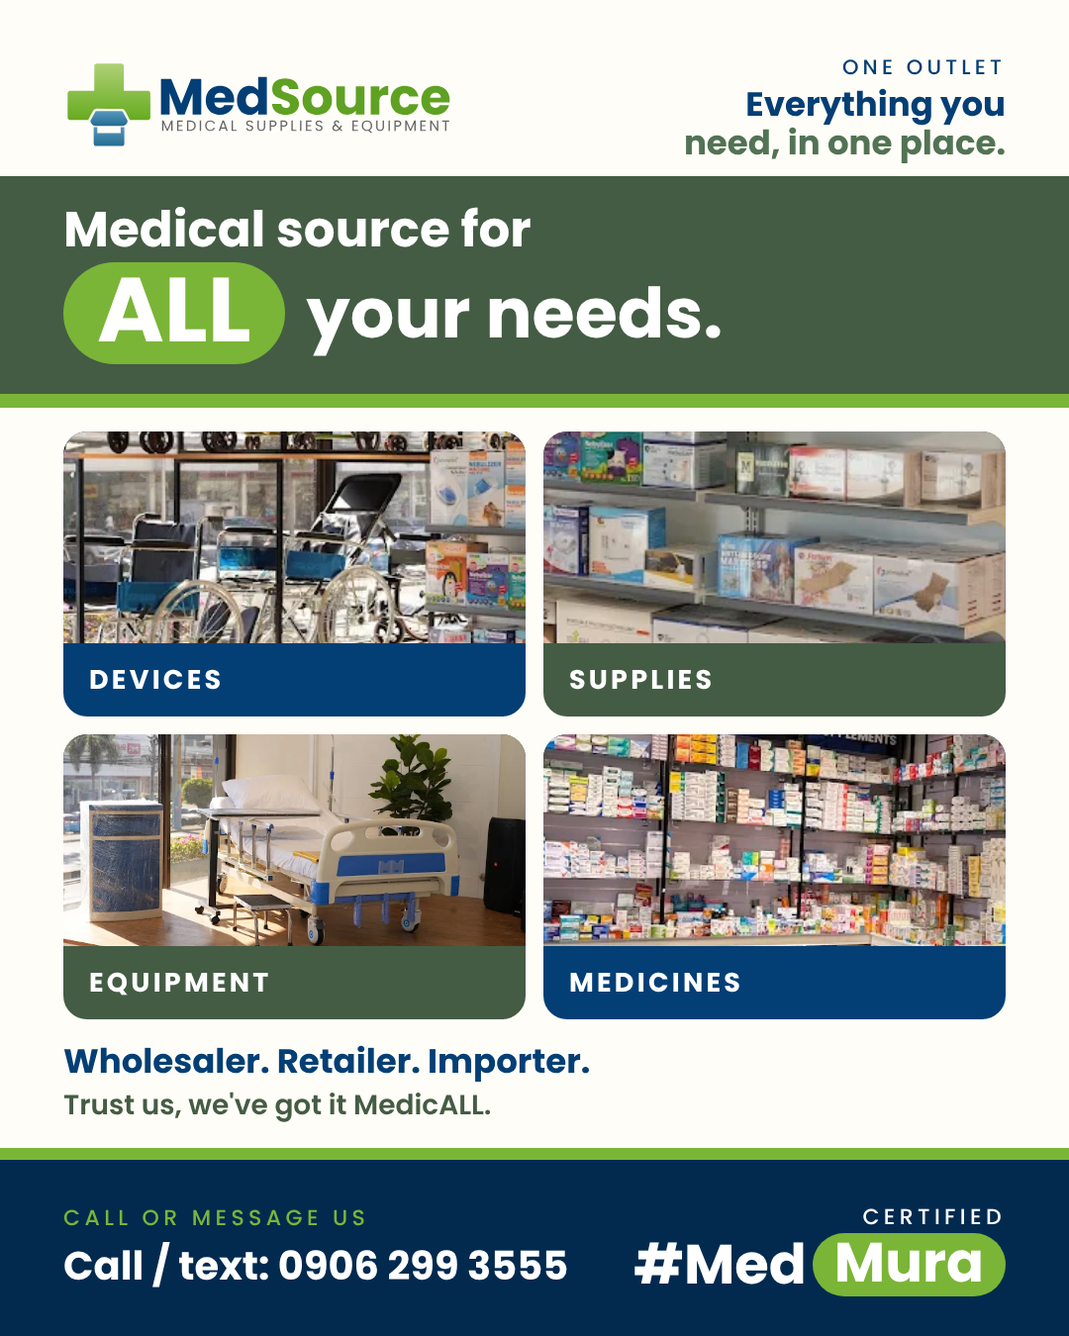
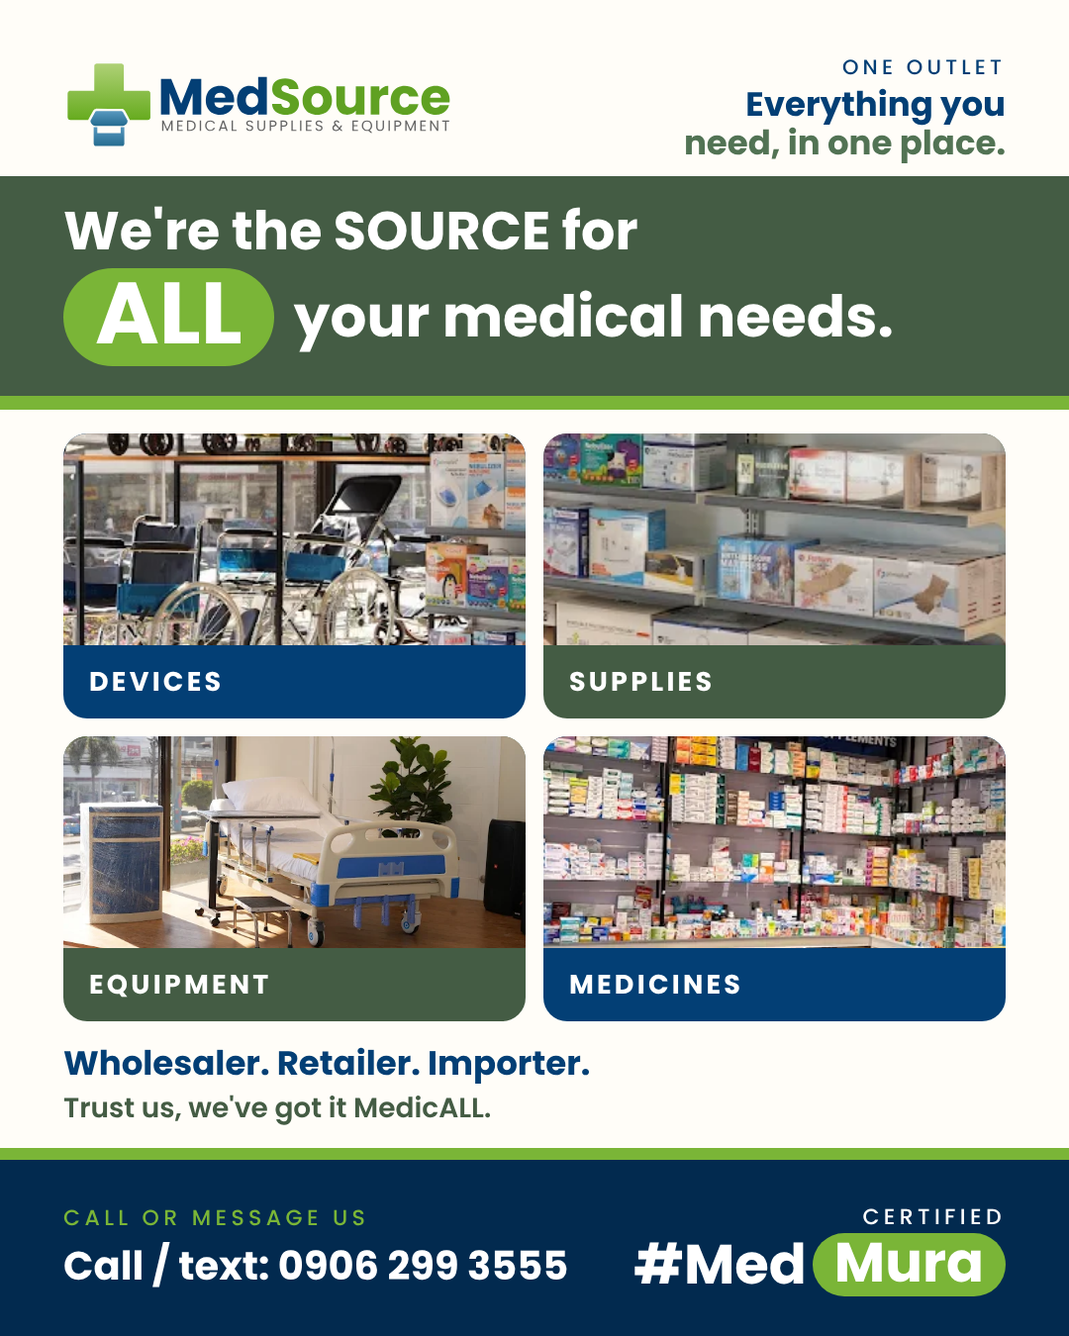
Approved: Oct 21 wholesale, Oct 23 accreditations (Sta. Lucia), Oct 25 recap
Claude-Session: https://claude.ai/code/session_01L5hhjkSSc8F7DavC5bWwGT

diff --git a/medsource/posts/2026-10-23-accreditations/source/story.html b/medsource/posts/2026-10-23-accreditations/source/story.html
@@ -14,23 +14,25 @@ body{width:1080px;height:1920px}
 </style></head><body><div class="root"><div style="padding:120px 64px 0;display:flex;justify-content:space-between;align-items:flex-start;height:232px">
 <img src="../../../brand/logos/medsource/medsource-landscape-white.svg" style="height:92px;margin-top:4px">
 <div style="text-align:right;line-height:1.15">
-<div style="font-size:21px;letter-spacing:.2em;font-weight:500;color:#fff">WHY TRUST US</div>
-<div style="font-size:34px;font-weight:700;color:#fff;margin-top:6px">Accredited and</div>
-<div style="font-size:34px;font-weight:700;color:#7AB537">ready to help.</div></div></div><div style="flex:1;padding:50px 64px 0;display:flex;flex-direction:column">
+<div style="font-size:21px;letter-spacing:.2em;font-weight:500;color:#fff">NOW AT OUR</div>
+<div style="font-size:34px;font-weight:700;color:#fff;margin-top:6px">Sta. Lucia Mall</div>
+<div style="font-size:34px;font-weight:700;color:#7AB537">Branch</div></div></div><div style="flex:1;padding:50px 64px 0;display:flex;flex-direction:column">
 <div style="font-size:62px;font-weight:300;color:#fff;letter-spacing:.08em;line-height:1.1">WE ARE</div>
 <div style="font-size:128px;font-weight:700;color:#fff;line-height:1.05;letter-spacing:-.02em;margin-top:2px">ACCREDITED.</div>
 <div style="width:96px;height:8px;background:#7AB537;margin-top:26px"></div>
 <div style="display:flex;flex-direction:column;gap:30px;margin-top:64px"><div style="background:#FFFDF8;border-radius:28px;height:336px;display:flex;align-items:center;padding:0 40px;gap:36px">
-<svg viewBox="0 0 64 64" width="104" height="104"><circle cx="32" cy="32" r="32" fill="#7AB537"/><path d="M18 33l9 9 19-21" fill="none" stroke="#022A4F" stroke-width="7" stroke-linecap="round" stroke-linejoin="round"/></svg>
-<div><div style="font-size:50px;font-weight:700;color:#033F75;line-height:1.15">PhilHealth YAKAP Gamot</div>
-<div style="font-size:34px;font-weight:500;color:#445C44;margin-top:8px;line-height:1.3">Accredited for the YAKAP Gamot program.</div></div></div><div style="background:#FFFDF8;border-radius:28px;height:336px;display:flex;align-items:center;padding:0 40px;gap:36px">
-<svg viewBox="0 0 64 64" width="104" height="104"><circle cx="32" cy="32" r="32" fill="#7AB537"/><path d="M18 33l9 9 19-21" fill="none" stroke="#022A4F" stroke-width="7" stroke-linecap="round" stroke-linejoin="round"/></svg>
-<div><div style="font-size:50px;font-weight:700;color:#033F75;line-height:1.15">DSWD Guarantee Letters</div>
-<div style="font-size:34px;font-weight:500;color:#445C44;margin-top:8px;line-height:1.3">Accredited under the DSWD AICS program.</div></div></div></div>
+<div style="width:330px;flex:none"><img src="ph.png" style="width:100%;display:block"><img src="yk.png" style="width:100%;display:block;margin-top:6px"><div style="margin-top:12px;height:37px;border-radius:18px;display:flex;align-items:center;justify-content:center;font-weight:700;font-size:18.9px;letter-spacing:.06em;color:#033F75;background:#FFB700;white-space:nowrap">GAMOT ACCREDITED</div></div><div style="width:2px;align-self:stretch;margin:36px 0;background:#D9DED6;flex:none"></div>
+<div><div style="font-size:46px;font-weight:700;color:#033F75;line-height:1.15">PhilHealth YAKAP Gamot</div>
+<div style="font-size:32px;font-weight:500;color:#445C44;margin-top:8px;line-height:1.3">Accredited for the YAKAP Gamot program.</div></div></div><div style="background:#FFFDF8;border-radius:28px;height:336px;display:flex;align-items:center;padding:0 40px;gap:36px">
+<div style="width:330px;flex:none"><div style="display:flex;align-items:center;height:122px"><img src="aics-icon.png" style="height:120px;width:auto;display:block;margin-right:12px"><div style="color:#26225F;font-weight:700;line-height:1"><b style="display:block;font-size:27px;letter-spacing:.06em;margin-bottom:5px">DSWD</b><span style="font-size:38px">AICS GL</span></div></div><div style="margin-top:12px;height:37px;border-radius:18px;display:flex;align-items:center;justify-content:center;font-weight:700;font-size:18.9px;letter-spacing:.06em;color:#033F75;background:#FFB700;white-space:nowrap">ACCREDITED</div></div><div style="width:2px;align-self:stretch;margin:36px 0;background:#D9DED6;flex:none"></div>
+<div><div style="font-size:46px;font-weight:700;color:#033F75;line-height:1.15">DSWD Guarantee Letters</div>
+<div style="font-size:32px;font-weight:500;color:#445C44;margin-top:8px;line-height:1.3">Accredited under the DSWD AICS program.</div></div></div></div>
 <div style="margin-top:60px;font-size:44px;font-weight:700;color:#fff;line-height:1.2">Send us your request, we take it from there.</div>
-<div style="font-size:34px;font-weight:600;color:#7AB537;margin-top:6px">Ask us how to get started.</div></div><div style="height:12px;background:#7AB537;flex:none"></div>
-<div style="background:#FFFDF8;height:350px;flex:none;padding:0 64px 120px;display:flex;justify-content:space-between;align-items:center">
-<div><div style="font-size:22px;letter-spacing:.2em;font-weight:500;color:#5A6470">CALL OR MESSAGE US</div>
-<div style="font-size:40px;font-weight:700;color:#033F75;margin-top:2px;white-space:nowrap">Call / text: 0906 299 3555</div></div>
-<div style="text-align:right"><div style="font-size:22px;letter-spacing:.2em;font-weight:500;color:#033F75">CERTIFIED</div>
-<div style="display:flex;align-items:center;justify-content:flex-end;font-size:56px;font-weight:700;color:#033F75;line-height:1">#Med<span style="background:#7AB537;color:#fff;border-radius:9999px;padding:2px 22px 6px;margin-left:6px">Mura</span></div></div></div></div></body></html>
+<div style="font-size:34px;font-weight:600;color:#7AB537;margin-top:6px">Email: sales.stalucia@medsource.com.ph</div></div><div style="height:12px;background:#7AB537;flex:none"></div>
+<div style="background:#FFFDF8;height:366px;flex:none;padding:0 64px 120px;display:flex;justify-content:space-between;align-items:center">
+<div><div style="font-size:21px;letter-spacing:.2em;font-weight:500;color:#5A6470">VISIT OR MESSAGE US</div>
+<div style="font-size:34px;font-weight:700;color:#033F75;margin-top:2px;white-space:nowrap">MedSource &middot; Sta. Lucia Mall</div>
+<div style="font-size:22px;font-weight:500;color:#5A6470;margin-top:1px;white-space:nowrap">Felix Ave. cor. Marcos Hwy, Cainta, Rizal</div>
+<div style="font-size:36px;font-weight:700;color:#033F75;margin-top:4px;white-space:nowrap">Call / text: 0967 325 3555</div></div>
+<div style="text-align:right"><div style="font-size:20px;letter-spacing:.2em;font-weight:500;color:#033F75">CERTIFIED</div>
+<div style="display:flex;align-items:center;justify-content:flex-end;font-size:46px;font-weight:700;color:#033F75;line-height:1">#Med<span style="background:#7AB537;color:#fff;border-radius:9999px;padding:2px 18px 5px;margin-left:5px">Mura</span></div></div></div></div></body></html>

diff --git a/medsource/posts/2026-10-23-accreditations/source/feed.html b/medsource/posts/2026-10-23-accreditations/source/feed.html
@@ -14,23 +14,25 @@ body{width:1080px;height:1350px}
 </style></head><body><div class="root"><div style="padding:56px 64px 0;display:flex;justify-content:space-between;align-items:flex-start;height:168px">
 <img src="../../../brand/logos/medsource/medsource-landscape-white.svg" style="height:92px;margin-top:4px">
 <div style="text-align:right;line-height:1.15">
-<div style="font-size:21px;letter-spacing:.2em;font-weight:500;color:#fff">WHY TRUST US</div>
-<div style="font-size:34px;font-weight:700;color:#fff;margin-top:6px">Accredited and</div>
-<div style="font-size:34px;font-weight:700;color:#7AB537">ready to help.</div></div></div><div style="flex:1;padding:26px 64px 0;display:flex;flex-direction:column">
+<div style="font-size:21px;letter-spacing:.2em;font-weight:500;color:#fff">NOW AT OUR</div>
+<div style="font-size:34px;font-weight:700;color:#fff;margin-top:6px">Sta. Lucia Mall</div>
+<div style="font-size:34px;font-weight:700;color:#7AB537">Branch</div></div></div><div style="flex:1;padding:26px 64px 0;display:flex;flex-direction:column">
 <div style="font-size:52px;font-weight:300;color:#fff;letter-spacing:.08em;line-height:1.1">WE ARE</div>
 <div style="font-size:112px;font-weight:700;color:#fff;line-height:1.05;letter-spacing:-.02em;margin-top:2px">ACCREDITED.</div>
 <div style="width:96px;height:8px;background:#7AB537;margin-top:18px"></div>
 <div style="display:flex;flex-direction:column;gap:26px;margin-top:44px"><div style="background:#FFFDF8;border-radius:28px;height:236px;display:flex;align-items:center;padding:0 40px;gap:36px">
-<svg viewBox="0 0 64 64" width="84" height="84"><circle cx="32" cy="32" r="32" fill="#7AB537"/><path d="M18 33l9 9 19-21" fill="none" stroke="#022A4F" stroke-width="7" stroke-linecap="round" stroke-linejoin="round"/></svg>
-<div><div style="font-size:40px;font-weight:700;color:#033F75;line-height:1.15">PhilHealth YAKAP Gamot</div>
-<div style="font-size:28px;font-weight:500;color:#445C44;margin-top:8px;line-height:1.3">Accredited for the YAKAP Gamot program.</div></div></div><div style="background:#FFFDF8;border-radius:28px;height:236px;display:flex;align-items:center;padding:0 40px;gap:36px">
-<svg viewBox="0 0 64 64" width="84" height="84"><circle cx="32" cy="32" r="32" fill="#7AB537"/><path d="M18 33l9 9 19-21" fill="none" stroke="#022A4F" stroke-width="7" stroke-linecap="round" stroke-linejoin="round"/></svg>
-<div><div style="font-size:40px;font-weight:700;color:#033F75;line-height:1.15">DSWD Guarantee Letters</div>
-<div style="font-size:28px;font-weight:500;color:#445C44;margin-top:8px;line-height:1.3">Accredited under the DSWD AICS program.</div></div></div></div>
+<div style="width:268px;flex:none"><img src="ph.png" style="width:100%;display:block"><img src="yk.png" style="width:100%;display:block;margin-top:6px"><div style="margin-top:10px;height:30px;border-radius:15px;display:flex;align-items:center;justify-content:center;font-weight:700;font-size:15.5px;letter-spacing:.06em;color:#033F75;background:#FFB700;white-space:nowrap">GAMOT ACCREDITED</div></div><div style="width:2px;align-self:stretch;margin:32px 0;background:#D9DED6;flex:none"></div>
+<div><div style="font-size:36px;font-weight:700;color:#033F75;line-height:1.15">PhilHealth YAKAP Gamot</div>
+<div style="font-size:26px;font-weight:500;color:#445C44;margin-top:8px;line-height:1.3">Accredited for the YAKAP Gamot program.</div></div></div><div style="background:#FFFDF8;border-radius:28px;height:236px;display:flex;align-items:center;padding:0 40px;gap:36px">
+<div style="width:268px;flex:none"><div style="display:flex;align-items:center;height:100px"><img src="aics-icon.png" style="height:98px;width:auto;display:block;margin-right:12px"><div style="color:#26225F;font-weight:700;line-height:1"><b style="display:block;font-size:22px;letter-spacing:.06em;margin-bottom:5px">DSWD</b><span style="font-size:31px">AICS GL</span></div></div><div style="margin-top:10px;height:30px;border-radius:15px;display:flex;align-items:center;justify-content:center;font-weight:700;font-size:15.5px;letter-spacing:.06em;color:#033F75;background:#FFB700;white-space:nowrap">ACCREDITED</div></div><div style="width:2px;align-self:stretch;margin:32px 0;background:#D9DED6;flex:none"></div>
+<div><div style="font-size:36px;font-weight:700;color:#033F75;line-height:1.15">DSWD Guarantee Letters</div>
+<div style="font-size:26px;font-weight:500;color:#445C44;margin-top:8px;line-height:1.3">Accredited under the DSWD AICS program.</div></div></div></div>
 <div style="margin-top:36px;font-size:37px;font-weight:700;color:#fff;line-height:1.2">Send us your request, we take it from there.</div>
-<div style="font-size:29px;font-weight:600;color:#7AB537;margin-top:6px">Ask us how to get started.</div></div><div style="height:12px;background:#7AB537;flex:none"></div>
-<div style="background:#FFFDF8;height:178px;flex:none;padding:0 64px 0px;display:flex;justify-content:space-between;align-items:center">
-<div><div style="font-size:22px;letter-spacing:.2em;font-weight:500;color:#5A6470">CALL OR MESSAGE US</div>
-<div style="font-size:40px;font-weight:700;color:#033F75;margin-top:2px;white-space:nowrap">Call / text: 0906 299 3555</div></div>
-<div style="text-align:right"><div style="font-size:22px;letter-spacing:.2em;font-weight:500;color:#033F75">CERTIFIED</div>
-<div style="display:flex;align-items:center;justify-content:flex-end;font-size:56px;font-weight:700;color:#033F75;line-height:1">#Med<span style="background:#7AB537;color:#fff;border-radius:9999px;padding:2px 22px 6px;margin-left:6px">Mura</span></div></div></div></div></body></html>
+<div style="font-size:29px;font-weight:600;color:#7AB537;margin-top:6px">Email: sales.stalucia@medsource.com.ph</div></div><div style="height:12px;background:#7AB537;flex:none"></div>
+<div style="background:#FFFDF8;height:194px;flex:none;padding:0 64px 0px;display:flex;justify-content:space-between;align-items:center">
+<div><div style="font-size:21px;letter-spacing:.2em;font-weight:500;color:#5A6470">VISIT OR MESSAGE US</div>
+<div style="font-size:34px;font-weight:700;color:#033F75;margin-top:2px;white-space:nowrap">MedSource &middot; Sta. Lucia Mall</div>
+<div style="font-size:22px;font-weight:500;color:#5A6470;margin-top:1px;white-space:nowrap">Felix Ave. cor. Marcos Hwy, Cainta, Rizal</div>
+<div style="font-size:36px;font-weight:700;color:#033F75;margin-top:4px;white-space:nowrap">Call / text: 0967 325 3555</div></div>
+<div style="text-align:right"><div style="font-size:20px;letter-spacing:.2em;font-weight:500;color:#033F75">CERTIFIED</div>
+<div style="display:flex;align-items:center;justify-content:flex-end;font-size:46px;font-weight:700;color:#033F75;line-height:1">#Med<span style="background:#7AB537;color:#fff;border-radius:9999px;padding:2px 18px 5px;margin-left:5px">Mura</span></div></div></div></div></body></html>

diff --git a/medsource/posts/2026-10-25-one-outlet-recap/source/story.html b/medsource/posts/2026-10-25-one-outlet-recap/source/story.html
@@ -17,8 +17,8 @@ body{width:1080px;height:1920px}
 <div style="font-size:21px;letter-spacing:.2em;font-weight:500;color:#033F75">ONE OUTLET</div>
 <div style="font-size:34px;font-weight:700;color:#033F75;margin-top:6px">Everything you</div>
 <div style="font-size:34px;font-weight:700;color:#527354">need, in one place.</div></div></div><div style="background:#445C44;flex:none;padding:40px 64px 44px;margin-top:28px">
-<div style="font-size:58px;font-weight:700;color:#fff;line-height:1.1">Medical source for</div>
-<div style="display:flex;align-items:center;gap:22px;margin-top:6px"><span style="background:#7AB537;color:#fff;border-radius:9999px;font-size:112px;font-weight:700;line-height:1.05;padding:0 40px 8px">ALL</span><span style="font-size:86px;font-weight:700;color:#fff;line-height:1.05">your needs.</span></div></div>
+<div style="font-size:62px;font-weight:700;color:#fff;line-height:1.1">We're the SOURCE for</div>
+<div style="display:flex;align-items:center;gap:20px;margin-top:8px"><span style="background:#7AB537;color:#fff;border-radius:9999px;font-size:100px;font-weight:700;line-height:1.05;padding:0 36px 8px">ALL</span><span style="font-size:62px;font-weight:700;color:#fff;line-height:1.05">your medical needs.</span></div></div>
 <div style="height:14px;background:#7AB537;flex:none"></div>
 <div style="flex:1;padding:44px 64px 0;display:flex;flex-direction:column">
 <div style="display:grid;grid-template-columns:1fr 1fr;gap:26px"><div style="border-radius:24px;overflow:hidden;background:#033F75">

diff --git a/medsource/posts/2026-10-25-one-outlet-recap/source/feed.html b/medsource/posts/2026-10-25-one-outlet-recap/source/feed.html
@@ -17,8 +17,8 @@ body{width:1080px;height:1350px}
 <div style="font-size:21px;letter-spacing:.2em;font-weight:500;color:#033F75">ONE OUTLET</div>
 <div style="font-size:34px;font-weight:700;color:#033F75;margin-top:6px">Everything you</div>
 <div style="font-size:34px;font-weight:700;color:#527354">need, in one place.</div></div></div><div style="background:#445C44;flex:none;padding:26px 64px 30px;margin-top:10px">
-<div style="font-size:50px;font-weight:700;color:#fff;line-height:1.1">Medical source for</div>
-<div style="display:flex;align-items:center;gap:22px;margin-top:6px"><span style="background:#7AB537;color:#fff;border-radius:9999px;font-size:92px;font-weight:700;line-height:1.05;padding:0 34px 6px">ALL</span><span style="font-size:70px;font-weight:700;color:#fff;line-height:1.05">your needs.</span></div></div>
+<div style="font-size:54px;font-weight:700;color:#fff;line-height:1.1">We're the SOURCE for</div>
+<div style="display:flex;align-items:center;gap:20px;margin-top:8px"><span style="background:#7AB537;color:#fff;border-radius:9999px;font-size:88px;font-weight:700;line-height:1.05;padding:0 32px 6px">ALL</span><span style="font-size:58px;font-weight:700;color:#fff;line-height:1.05">your medical needs.</span></div></div>
 <div style="height:14px;background:#7AB537;flex:none"></div>
 <div style="flex:1;padding:24px 64px 0;display:flex;flex-direction:column">
 <div style="display:grid;grid-template-columns:1fr 1fr;gap:18px"><div style="border-radius:24px;overflow:hidden;background:#033F75">

diff --git a/medsource/posts/2026-10-21-wholesale-clinics/source/story.html b/medsource/posts/2026-10-21-wholesale-clinics/source/story.html
@@ -21,8 +21,8 @@ body{width:1080px;height:1920px}
 <div style="font-size:104px;font-weight:700;color:#fff;line-height:1.05;letter-spacing:-.01em;margin-top:6px">Buy in bulk.</div></div>
 <div style="height:14px;background:#7AB537;flex:none"></div>
 <div style="flex:1;padding:44px 64px 0;display:flex;flex-direction:column">
-<div style="position:relative;height:640px;border-radius:28px;overflow:hidden;background:url(photo3.webp) center/cover">
-<div style="position:absolute;left:0;bottom:0;background:#033F75;color:#fff;font-size:26px;font-weight:700;letter-spacing:.1em;padding:20px 30px;border-top-right-radius:24px">EQUIPMENT, SUPPLIES AND MEDICINES</div></div>
+<div style="position:relative;height:640px;border-radius:28px;overflow:hidden;background:url(photo1.webp) center/cover">
+<div style="position:absolute;left:0;bottom:0;background:#033F75;color:#fff;font-size:26px;font-weight:700;letter-spacing:.1em;padding:20px 30px;border-top-right-radius:24px">HOSPITAL EQUIPMENT AND SUPPLIES</div></div>
 <div style="margin-top:48px;font-size:47px;font-weight:700;color:#033F75;line-height:1.2">Stocking a clinic or hospital?</div>
 <div style="font-size:37px;font-weight:600;color:#445C44;margin-top:6px;line-height:1.3">Ask for a quotation: sales.quotations@medsource.com.ph</div></div><div style="height:12px;background:#7AB537;flex:none"></div>
 <div style="background:#033F75;height:350px;flex:none;padding:0 64px 120px;display:flex;justify-content:space-between;align-items:center">

diff --git a/medsource/posts/2026-10-21-wholesale-clinics/source/feed.html b/medsource/posts/2026-10-21-wholesale-clinics/source/feed.html
@@ -21,8 +21,8 @@ body{width:1080px;height:1350px}
 <div style="font-size:90px;font-weight:700;color:#fff;line-height:1.05;letter-spacing:-.01em;margin-top:6px">Buy in bulk.</div></div>
 <div style="height:14px;background:#7AB537;flex:none"></div>
 <div style="flex:1;padding:28px 64px 0;display:flex;flex-direction:column">
-<div style="position:relative;height:540px;border-radius:28px;overflow:hidden;background:url(photo3.webp) center/cover">
-<div style="position:absolute;left:0;bottom:0;background:#033F75;color:#fff;font-size:23px;font-weight:700;letter-spacing:.1em;padding:20px 30px;border-top-right-radius:24px">EQUIPMENT, SUPPLIES AND MEDICINES</div></div>
+<div style="position:relative;height:540px;border-radius:28px;overflow:hidden;background:url(photo1.webp) center/cover">
+<div style="position:absolute;left:0;bottom:0;background:#033F75;color:#fff;font-size:23px;font-weight:700;letter-spacing:.1em;padding:20px 30px;border-top-right-radius:24px">HOSPITAL EQUIPMENT AND SUPPLIES</div></div>
 <div style="margin-top:26px;font-size:39px;font-weight:700;color:#033F75;line-height:1.2">Stocking a clinic or hospital?</div>
 <div style="font-size:31px;font-weight:600;color:#445C44;margin-top:6px;line-height:1.3">Ask for a quotation: sales.quotations@medsource.com.ph</div></div><div style="height:12px;background:#7AB537;flex:none"></div>
 <div style="background:#033F75;height:178px;flex:none;padding:0 64px 0px;display:flex;justify-content:space-between;align-items:center">

diff --git a/medsource/posts/2026-10-23-accreditations/post.md b/medsource/posts/2026-10-23-accreditations/post.md
@@ -4,11 +4,11 @@
 | --- | --- |
 | Date | Oct 23, 2026 |
 | Type | Social post |
-| Branch | None (digital sales, 0906 299 3555) |
-| Status | Draft, awaiting approval |
+| Branch | Sta. Lucia Mall (0967 325 3555, sales.stalucia@medsource.com.ph) |
+| Status | Approved |
 | Design | HTML source in [`source/`](source/), rendered with the MedSource Design System |
 
-PhilHealth YAKAP Gamot and DSWD Guarantee Letter (AICS) accreditation, digital sales version. Full forest scheme, text and icons only (no government logos).
+PhilHealth YAKAP Gamot and DSWD Guarantee Letter (AICS) accreditation for the Sta. Lucia Mall branch. Full forest scheme, with the YAKAP Gamot and AICS GL lockups from the Facebook cover.
 
 ## Schedule
 
@@ -33,7 +33,9 @@ Yes, we are officially legit. ✅😉
 
 MedSource is PhilHealth YAKAP Gamot accredited and DSWD Guarantee Letter (AICS) accredited. 🏥
 
-Send us your request and we will take it from there. 💚
+Send us your request or drop by our Sta. Lucia Mall branch and we will take it from there. 💚
+
+MedSource Medical Supplies (Ground Level, Sta Lucia Mall Building 1 Felix Avenue, San Isidro, Cainta Rizal)
 
 MESSAGE NOW The ALL-IN-ONE Medical Outlet has YOU covered!
 Available for IN-STORE PICKUP and NATIONWIDE SHIPPING!
@@ -49,7 +51,7 @@ Yes, we are officially legit. ✅😉
 
 MedSource is PhilHealth YAKAP Gamot accredited and DSWD Guarantee Letter (AICS) accredited. 🏥
 
-Send us your request and we will take it from there. 💚
+Send us your request or drop by our Sta. Lucia Mall branch and we will take it from there. 💚
 
 DM NOW The ALL-IN-ONE Medical Outlet has YOU covered!
 Available for IN-STORE PICKUP and NATIONWIDE SHIPPING!

diff --git a/medsource/README.md b/medsource/README.md
@@ -9,7 +9,7 @@ Every MedSource publication in one place: social posts, signage and print, plus 
 | Date | Publication | Branch | Status | Preview |
 | --- | --- | --- | --- | --- |
 | Oct 25, 2026 | [One Outlet Recap](posts/2026-10-25-one-outlet-recap/post.md) | Digital sales | Draft | <img src="posts/2026-10-25-one-outlet-recap/feed-1080x1350.png" width="120"> |
-| Oct 23, 2026 | [Accredited](posts/2026-10-23-accreditations/post.md) | Digital sales | Draft | <img src="posts/2026-10-23-accreditations/feed-1080x1350.png" width="120"> |
+| Oct 23, 2026 | [Accredited](posts/2026-10-23-accreditations/post.md) | Sta. Lucia Mall | Draft | <img src="posts/2026-10-23-accreditations/feed-1080x1350.png" width="120"> |
 | Oct 21, 2026 | [Wholesale for Clinics](posts/2026-10-21-wholesale-clinics/post.md) | Digital sales | Draft | <img src="posts/2026-10-21-wholesale-clinics/feed-1080x1350.png" width="120"> |
 | Oct 19, 2026 | [How to Order](posts/2026-10-19-how-to-order/post.md) | Digital sales | Scheduled | <img src="posts/2026-10-19-how-to-order/feed-1080x1350.png" width="120"> |
 | Oct 12, 2026 | [Facebook Cover: #MedMura is now in the Philippines](posts/2026-10-12-facebook-cover/post.md) | Digital sales | Approved | <img src="posts/2026-10-12-facebook-cover/facebook-cover-1640x624.png" width="120"> |

diff --git a/medsource/posts/2026-10-25-one-outlet-recap/post.md b/medsource/posts/2026-10-25-one-outlet-recap/post.md
@@ -5,10 +5,10 @@
 | Date | Oct 25, 2026 |
 | Type | Social post |
 | Branch | None (digital sales, 0906 299 3555) |
-| Status | Draft, awaiting approval |
+| Status | Approved |
 | Design | HTML source in [`source/`](source/), rendered with the MedSource Design System |
 
-Recap of the four categories (devices, supplies, equipment, medicines) with real store photos. Cream ground with forest band and 2x2 tiles. The fifth slot was my pick, swap it if you prefer another topic.
+Recap of the four categories (devices, supplies, equipment, medicines) with real store photos. Cream ground with forest band, tagline "We're the SOURCE for ALL your medical needs." and 2x2 tiles (new tile photos pending from EJ).
 
 ## Schedule
 

diff --git a/medsource/posts/2026-10-21-wholesale-clinics/post.md b/medsource/posts/2026-10-21-wholesale-clinics/post.md
@@ -5,10 +5,10 @@
 | Date | Oct 21, 2026 |
 | Type | Social post |
 | Branch | None (digital sales, 0906 299 3555) |
-| Status | Draft, awaiting approval |
+| Status | Approved |
 | Design | HTML source in [`source/`](source/), rendered with the MedSource Design System |
 
-Bulk supply for clinics and hospitals, quotations by email. White ground with forest band and the real store photo of wheelchairs and supply shelves.
+Bulk supply for clinics and hospitals, quotations by email. White ground with forest band and the hospital bed photo (clinic and hospital photos pending from EJ).
 
 ## Schedule
 
